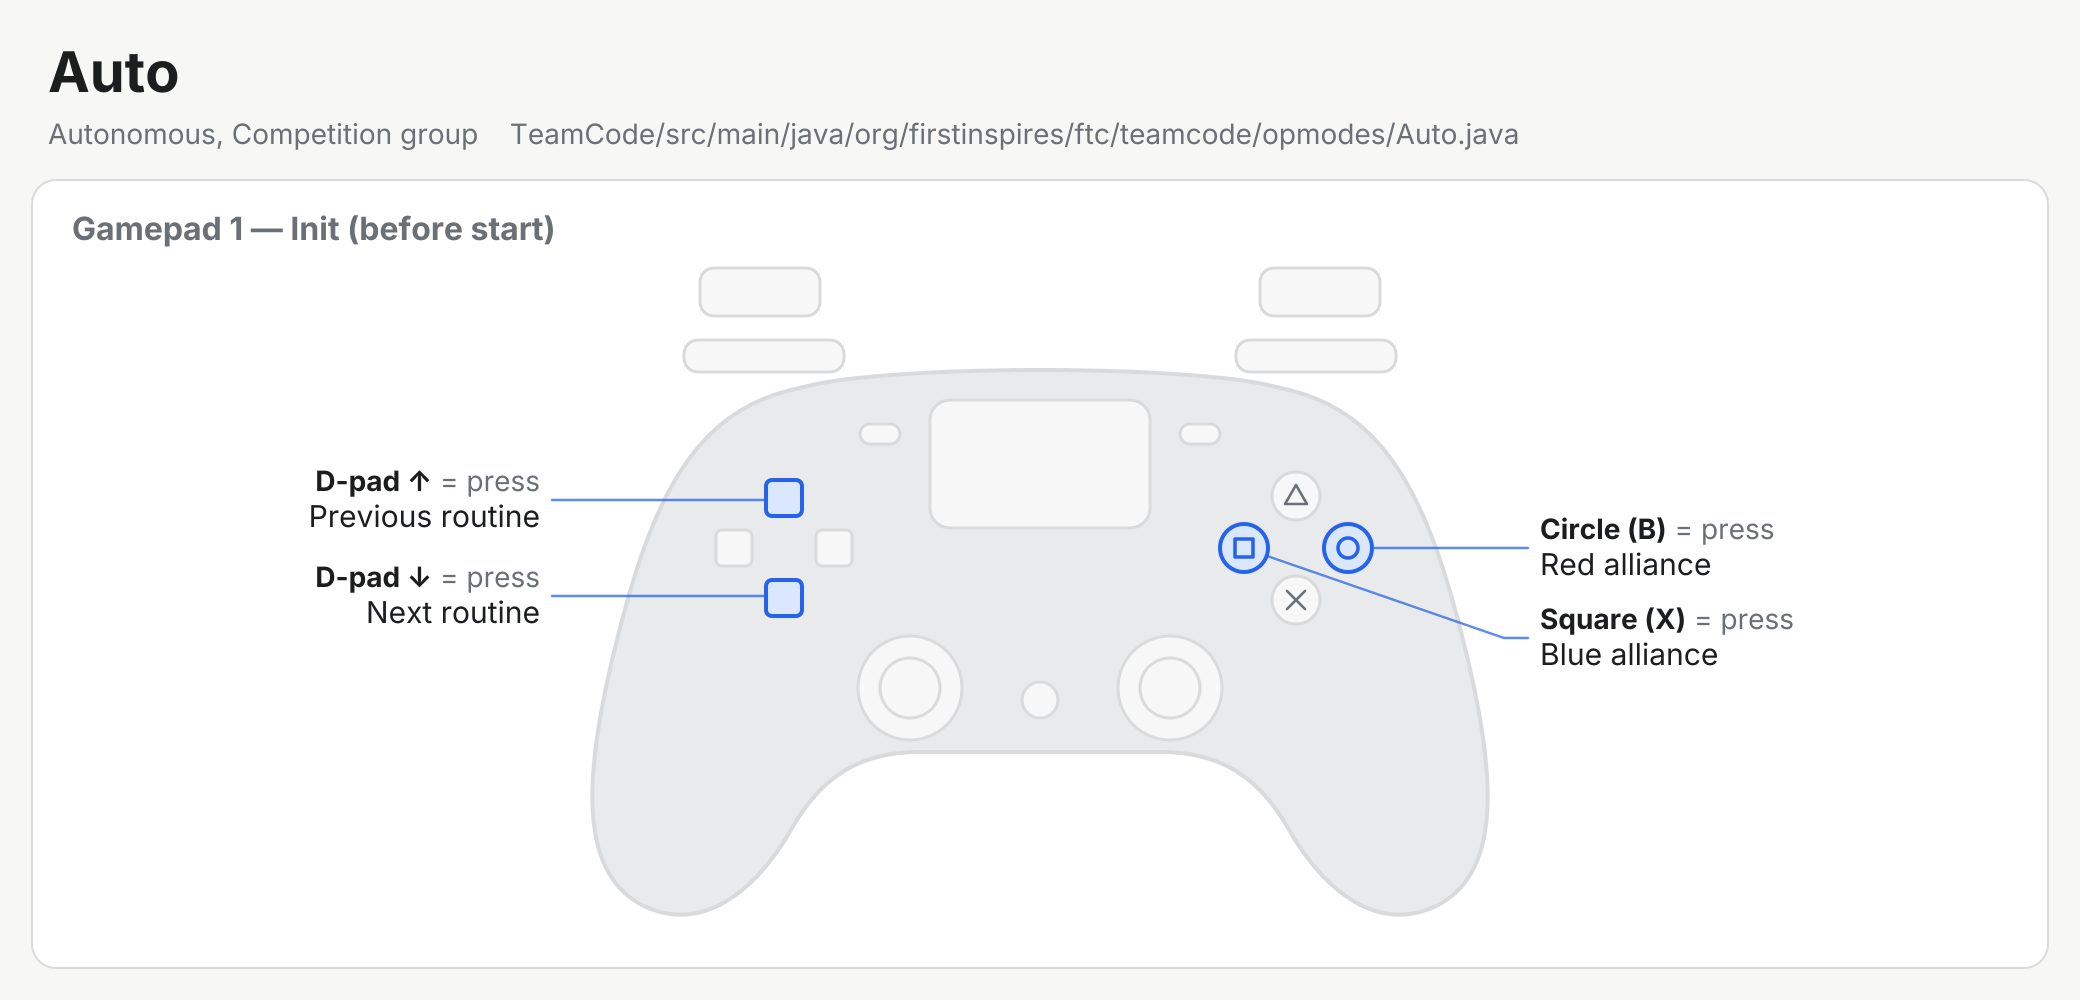
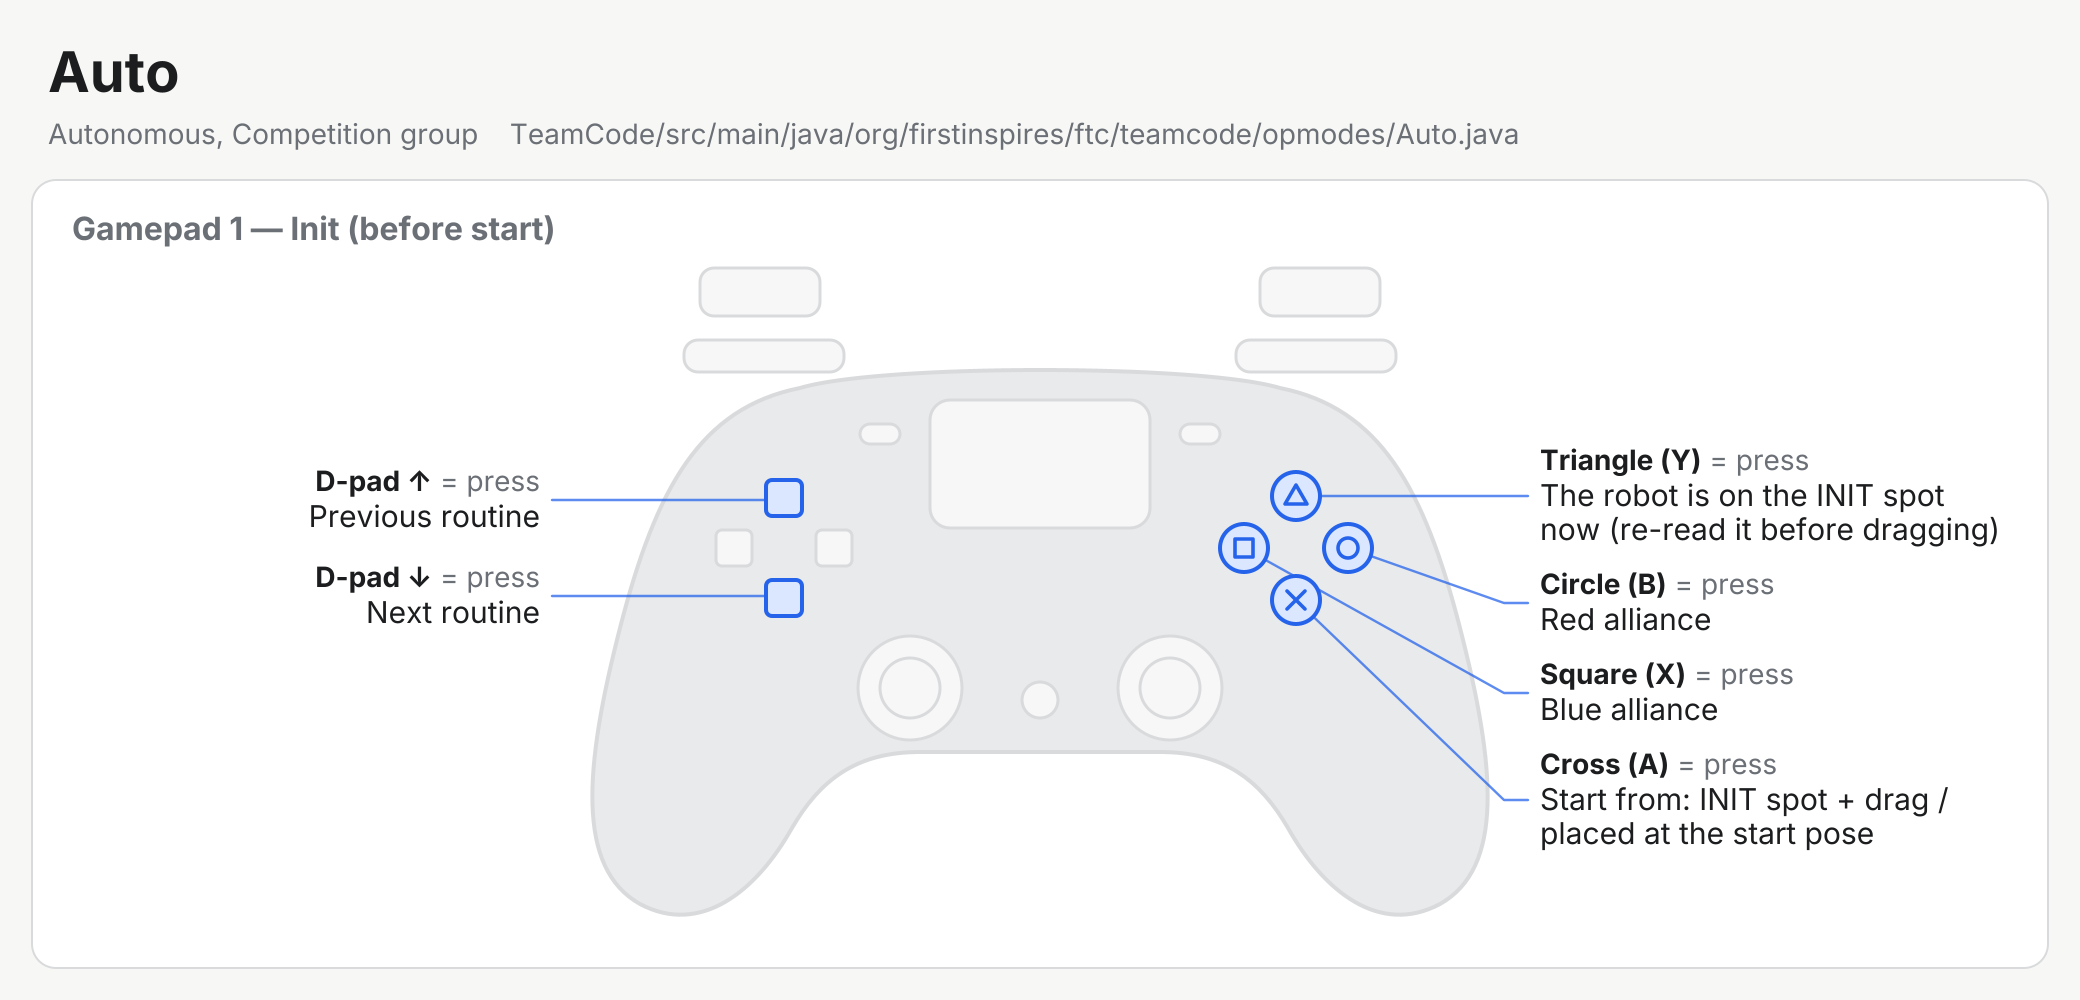
Auto: line up on an INIT spot by tile edges, then drag to the wall; start pose = spot + measured drag

Changed region(s): [[0.6562, 0.434, 0.9688, 0.868], [0.5938, 0.558, 0.6875, 0.62], [0.5938, 0.465, 0.6562, 0.527]]

diff --git a/TeamCode/src/main/java/org/firstinspires/ftc/teamcode/routines/FieldPoses.java b/TeamCode/src/main/java/org/firstinspires/ftc/teamcode/routines/FieldPoses.java
@@ -2,6 +2,7 @@ package org.firstinspires.ftc.teamcode.routines;
 
 import com.pedropathing.api.PoseFactory;
 import com.pedropathing.math.Pose;
+import com.pedropathing.utils.Angle;
 
 import org.firstinspires.ftc.teamcode.core.Hive;
 import org.firstinspires.ftc.teamcode.core.RobotConstants;
@@ -13,8 +14,40 @@ import org.firstinspires.ftc.teamcode.core.RobotConstants;
  * Write poses for the red alliance (inches, degrees). A pose only one routine uses can stay in that routine.
  */
 public class FieldPoses {
+    /**
+     * A spot to line the robot up on at INIT by tile edges alone, before dragging it to its start pose. Walls bend and
+     * the cable chain keeps the robot off them, but tile edges don't move: the Pinpoint measures the drag, so the start
+     * pose is this spot plus the drag ({@link #afterDrag}).
+     */
+    public static final class InitSpot {
+        public final Pose pose;
+        /** How to line up on it, as seen from our driver station (the same words for both alliances). */
+        public final String hint;
+
+        InitSpot(Pose pose, String hint) {
+            this.pose = pose;
+            this.hint = hint;
+        }
+
+        /**
+         * Where the robot is now: this spot, moved by what the Pinpoint read between lining up here (initRaw) and now
+         * (raw). The Pinpoint's own frame doesn't matter, only its move, taken in the robot's frame at the spot.
+         */
+        public Pose afterDrag(Pose initRaw, Pose raw) {
+            double c = Math.cos(initRaw.heading()), s = Math.sin(initRaw.heading());
+            double dx = raw.x() - initRaw.x(), dy = raw.y() - initRaw.y();
+            double forward = dx * c + dy * s, left = -dx * s + dy * c;
+            double turn = Angle.normalize(raw.heading() - initRaw.heading());
+            double h = pose.heading();
+            return new Pose(pose.x() + forward * Math.cos(h) - left * Math.sin(h),
+                    pose.y() + forward * Math.sin(h) + left * Math.cos(h), Angle.normalize(h + turn));
+        }
+    }
+
     /** Where the robot is placed at the start of the match. */
     public final Pose start;
+    /** Lined up one tile out from the audience wall, then dragged back to {@link #start}. */
+    public final InitSpot startInitSpot;
     /** Launch spot just in front of the start, where the preloads are shot. */
     public final Pose startLaunch;
     /** Edge of the garden, where the robot lines up to drive in and intake. */
@@ -47,8 +80,17 @@ public class FieldPoses {
     public final Pose rightLaunch, leftLaunch;
     /** Back against the alliance wall on the second tile from the audience wall (A2), facing the field. */
     public final Pose allianceWallStart;
+    /** Lined up one tile out from the alliance wall, then dragged back to (around) {@link #allianceWallStart}. */
+    public final InitSpot allianceWallInitSpot;
     /** Out from our garden corner, the ball camera on the garden's row of pollen. */
     public final Pose gardenLook;
+
+    /**
+     * The poses from start to flowerShoot were tuned with the robot's side on the tile edge at x = 48 while the code had
+     * it at x = 56.8946, this much further out; they're written as tuned and moved back by it, so the robot drives the
+     * same moves now that the start pose is where the robot really is (Nov 10).
+     */
+    private static final double TUNED_X_BIAS = 56.8946 - (48 + 15.748 / 2);
 
 
 
@@ -58,27 +100,43 @@ public class FieldPoses {
     }
 
     public FieldPoses(PoseFactory poseFactory) {
-        // Back against the audience wall. The poses down to topPark were tuned on the robot (Oct 30) from a start of
-        // y = 5.0366, 4.2134 in short of where the robot really sits, so they're all 4.2134 in up from what was tuned:
-        // the same moves on the field
-        start = poseFactory.of(56.8946, RobotConstants.Field.WALL + RobotConstants.Field.ROBOT_LENGTH / 2, 90);
-        startLaunch = poseFactory.of(59.808, 15.1732, 90);
-        gardenBorder = poseFactory.of(9.577, 28.2910, -90);
-        gardenIntake = poseFactory.of(9.561, 13.2993, -90);
-        gardenIntakeBack = poseFactory.of(9.561, 25.2993, -90);
-        adjustToPark = poseFactory.of(38.561, 24.2993, -90);
-        bottomPark = poseFactory.of(10.5389, 96.1701, 0);
-        topPark = poseFactory.of(11.4049, 124.6458, 0);
-        gardenCenterLine = poseFactory.of(60, 40, 90);
-        flowerLaunch = poseFactory.of(60, 119.7, 90);
-        flowerIntake = poseFactory.of(51, 131, 95);
-        flowerShoot = poseFactory.of(56, 121, 95);
+        double width = RobotConstants.Field.ROBOT_WIDTH, length = RobotConstants.Field.ROBOT_LENGTH;
+        // Back against the audience wall, the side nearest our driver station on the tile edge at x = 48. The poses down
+        // to topPark were tuned on the robot (Oct 30) from a start of y = 5.0366, 4.2134 in short of where the robot
+        // really sits, so they're all 4.2134 in up from what was tuned: the same moves on the field
+        start = poseFactory.of(48 + width / 2, RobotConstants.Field.WALL + length / 2, 90);
+        // The same, one tile out: back edge on the tile edge at y = 24
+        startInitSpot = new InitSpot(poseFactory.of(48 + width / 2, 24 + length / 2, 90),
+                "Facing left, one tile out from the right-hand side wall: back edge on the 1st tile line out from that"
+                        + " wall, the side nearest us on the 2nd tile line out from our alliance wall."
+                        + " INIT, then drag it straight back to the wall");
+        startLaunch = tuned(poseFactory, 59.808, 15.1732, 90);
+        gardenBorder = tuned(poseFactory, 9.577, 28.2910, -90);
+        gardenIntake = tuned(poseFactory, 9.561, 13.2993, -90);
+        gardenIntakeBack = tuned(poseFactory, 9.561, 25.2993, -90);
+        adjustToPark = tuned(poseFactory, 38.561, 24.2993, -90);
+        bottomPark = tuned(poseFactory, 10.5389, 96.1701, 0);
+        topPark = tuned(poseFactory, 11.4049, 124.6458, 0);
+        gardenCenterLine = tuned(poseFactory, 60, 40, 90);
+        flowerLaunch = tuned(poseFactory, 60, 119.7, 90);
+        flowerIntake = tuned(poseFactory, 51, 131, 95);
+        flowerShoot = tuned(poseFactory, 56, 121, 95);
         rightLaunch = poseFactory.of(56, 20.219975, 90);
         leftLaunch = poseFactory.of(56, 144 - 20.219975, -90);
         // The camera looks 20° left of the intake (RobotConstants.BallVision.YAW): heading = where to look - 20°
         allianceWallStart = poseFactory.of(RobotConstants.Field.WALL + RobotConstants.Field.ROBOT_LENGTH / 2, 36, 0);
+        // Facing the field one tile out from the alliance wall: back edge on x = 24, right side on y = 24
+        allianceWallInitSpot = new InitSpot(poseFactory.of(24 + length / 2, 24 + width / 2, 0),
+                "Facing away from us, one tile out from our alliance wall: back edge on the 1st tile line out from it,"
+                        + " right side on the 1st tile line out from the right-hand side wall."
+                        + " INIT, then drag it back to our wall (sliding it along is fine: the drag is measured)");
         gardenLook = poseFactory.of(30, 16, 190);
 
 
+    }
+
+    /** A pose as tuned on the robot before Nov 10, moved by TUNED_X_BIAS (red x; blue is flipped with the rest). */
+    private static Pose tuned(PoseFactory poseFactory, double x, double y, double degrees) {
+        return poseFactory.of(x - TUNED_X_BIAS, y, degrees);
     }
 }

diff --git a/TeamCode/src/main/java/org/firstinspires/ftc/teamcode/opmodes/Auto.java b/TeamCode/src/main/java/org/firstinspires/ftc/teamcode/opmodes/Auto.java
@@ -14,7 +14,9 @@ import org.firstinspires.ftc.robotcore.external.Telemetry;
 import org.firstinspires.ftc.teamcode.core.Hive;
 import org.firstinspires.ftc.teamcode.core.MatchState;
 import org.firstinspires.ftc.teamcode.core.Robot;
+import org.firstinspires.ftc.teamcode.pedro.FusedLocalizer;
 import org.firstinspires.ftc.teamcode.routines.AutoRoutine;
+import org.firstinspires.ftc.teamcode.routines.FieldPoses;
 import org.firstinspires.ftc.teamcode.routines.Routines;
 import org.firstinspires.ftc.teamcode.util.Html;
 import org.firstinspires.ftc.teamcode.util.MatchLog;
@@ -28,6 +30,10 @@ import java.util.List;
 public class Auto extends OpMode {
     // Static so the last pick is remembered between runs
     private static Routines selected = null;
+    // Lined up on the routine's INIT spot and dragged to the start (else placed at the start pose). Gamepad 1 cross
+    private static boolean fromInitSpot = true;
+    // The Pinpoint settles (and calibrates its gyro) after INIT: the INIT spot is read this long after
+    private static final double INIT_SPOT_READ_S = 0.5;
 
     private Robot robot;
     private Follower follower;
@@ -36,6 +42,8 @@ public class Auto extends OpMode {
     private AutoRoutine running; // the one start() scheduled
     private PanelsDisplay panelsDisplay;
     private final ElapsedTime loopTimer = new ElapsedTime();
+    private final ElapsedTime sinceInit = new ElapsedTime();
+    private Pose initSpotRaw = null; // the Pinpoint's pose with the robot on the INIT spot, null until read
 
     @Override
     public void init() {
@@ -53,6 +61,7 @@ public class Auto extends OpMode {
         routines = Routines.enabled();
         if (routines.isEmpty()) throw new IllegalStateException("Every routine is @Disabled");
         if (!routines.contains(selected)) selected = routines.get(0);
+        sinceInit.reset();
     }
 
     @Override
@@ -70,8 +79,7 @@ public class Auto extends OpMode {
         } else robot.ballVision.stop(); // opened scrolling past one that does: its pipeline would eat loop time
 
         telemetry.addData("Routine", "%s   (%d/%d, dpad ↑↓)", bold(selected.toString()), index + 1, routines.size());
-        Pose start = routine.startPose();
-        telemetry.addData("Place robot at", "x %.1f  y %.1f  h %.0f°", start.x(), start.y(), Math.toDegrees(start.heading()));
+        showStart(routine);
         // The turret was zeroed at INIT: if it's been turned since, the aim and the fused heading are off by as much
         double turret = Math.toDegrees(robot.launcher.readTurretAngle());
         if (Math.abs(turret) > 2) {
@@ -92,7 +100,7 @@ public class Auto extends OpMode {
     public void start() {
         // Alliance and routine are picked in init_loop, so the routine is built here instead of init()
         AutoRoutine routine = selected.create(robot, MatchState.alliance);
-        follower.setPose(routine.startPose());
+        follower.setPose(startPose(routine));
         routine.setUp();
 
         robot.start();
@@ -101,6 +109,50 @@ public class Auto extends OpMode {
         schedule(routine.autoRoutine());
         running = routine;
         loopTimer.reset();
+    }
+
+    /** The INIT spot (read once the Pinpoint has settled, or again on triangle), the drag so far, and where that puts us. */
+    private void showStart(AutoRoutine routine) {
+        FusedLocalizer localizer = robot.drivebase.getLocalizer();
+        localizer.update(); // only reads the Pinpoint: nothing moves
+        Pose raw = localizer.getOdometryPose();
+        if (initSpotRaw == null && sinceInit.seconds() > INIT_SPOT_READ_S) initSpotRaw = raw;
+        if (gamepad1.triangleWasPressed()) initSpotRaw = raw;
+        if (gamepad1.crossWasPressed()) fromInitSpot = !fromInitSpot;
+
+        Pose start = routine.startPose();
+        FieldPoses.InitSpot spot = routine.initSpot();
+        if (spot == null || !fromInitSpot) {
+            telemetry.addData("Place robot at", "x %.1f  y %.1f  h %.0f°", start.x(), start.y(), Math.toDegrees(start.heading()));
+            if (spot != null) telemetry.addLine("(cross: line up on the INIT spot and drag it there instead)");
+            return;
+        }
+        telemetry.addLine(bold("INIT spot: ") + spot.hint + "   (cross: placed at the start instead)");
+        if (initSpotRaw == null) {
+            telemetry.addLine(Html.color(bold("Hold still: reading the INIT spot"), Html.YELLOW));
+            return;
+        }
+        Pose now = spot.afterDrag(initSpotRaw, raw);
+        double dragged = Math.hypot(raw.x() - initSpotRaw.x(), raw.y() - initSpotRaw.y());
+        double turned = Math.toDegrees(Math.abs(Math.atan2(Math.sin(now.heading() - spot.pose.heading()),
+                Math.cos(now.heading() - spot.pose.heading()))));
+        telemetry.addData("Dragged", "%.1f in, turned %.1f°  ->  start x %.1f  y %.1f  h %.0f°   (triangle: it's on the INIT spot now)",
+                dragged, turned, now.x(), now.y(), Math.toDegrees(now.heading()));
+        double off = Math.hypot(now.x() - start.x(), now.y() - start.y());
+        if (dragged < 3) {
+            telemetry.addLine(Html.color(bold("Not dragged yet: drag it to the wall"), Html.YELLOW));
+        } else if (off > 6) {
+            telemetry.addLine(Html.color(bold(String.format("%.0f in from where the route starts: check the INIT spot", off)), Html.RED));
+        }
+    }
+
+    /** The routine's start pose, or with an INIT spot, that spot plus the drag the Pinpoint measured since. */
+    private Pose startPose(AutoRoutine routine) {
+        FieldPoses.InitSpot spot = routine.initSpot();
+        if (spot == null || !fromInitSpot || initSpotRaw == null) return routine.startPose();
+        FusedLocalizer localizer = robot.drivebase.getLocalizer();
+        localizer.update();
+        return spot.afterDrag(initSpotRaw, localizer.getOdometryPose());
     }
 
     @Override

diff --git a/TeamCode/src/test/java/org/firstinspires/ftc/teamcode/routines/InitSpotTest.java b/TeamCode/src/test/java/org/firstinspires/ftc/teamcode/routines/InitSpotTest.java
@@ -1,0 +1,46 @@
+package org.firstinspires.ftc.teamcode.routines;
+
+import static org.junit.Assert.assertEquals;
+
+import com.pedropathing.math.Pose;
+
+import org.junit.Test;
+
+public class InitSpotTest {
+    private static final double SPOT_X = 55.874, SPOT_Y = 32, SPOT_H = Math.toRadians(90);
+    private final FieldPoses.InitSpot spot = new FieldPoses.InitSpot(new Pose(SPOT_X, SPOT_Y, SPOT_H), "");
+
+    /** The Pinpoint's pose after moving forward / left (inches) in its own frame and turning (radians). */
+    private static Pose moved(Pose from, double forward, double left, double turn) {
+        double c = Math.cos(from.heading()), s = Math.sin(from.heading());
+        return new Pose(from.x() + forward * c - left * s, from.y() + forward * s + left * c, from.heading() + turn);
+    }
+
+    private static void assertPose(double x, double y, double heading, Pose actual) {
+        assertEquals("x", x, actual.x(), 1e-9);
+        assertEquals("y", y, actual.y(), 1e-9);
+        assertEquals("heading", heading, actual.heading(), 1e-9);
+    }
+
+    @Test
+    public void notDraggedIsTheSpot() {
+        Pose raw = new Pose(3, -7, 1.2);
+        assertPose(SPOT_X, SPOT_Y, SPOT_H, spot.afterDrag(raw, raw));
+    }
+
+    @Test
+    public void draggedStraightBackAnyPinpointFrame() {
+        // Whatever the Pinpoint read at the spot, 22.75 in backwards is 22.75 in toward the wall behind the spot
+        for (Pose initRaw : new Pose[]{new Pose(0, 0, 0), new Pose(10, -5, Math.toRadians(30)), new Pose(-3, 8, -2.5)}) {
+            assertPose(SPOT_X, SPOT_Y - 22.75, SPOT_H, spot.afterDrag(initRaw, moved(initRaw, -22.75, 0, 0)));
+        }
+    }
+
+    @Test
+    public void sidewaysAndTurnedFollowTheRobot() {
+        Pose initRaw = new Pose(10, -5, Math.toRadians(30));
+        // Facing +y at the spot, so the robot's left is -x
+        assertPose(SPOT_X - 3, SPOT_Y, SPOT_H, spot.afterDrag(initRaw, moved(initRaw, 0, 3, 0)));
+        assertPose(SPOT_X, SPOT_Y, SPOT_H + Math.toRadians(5), spot.afterDrag(initRaw, moved(initRaw, 0, 0, Math.toRadians(5))));
+    }
+}

diff --git a/TeamCode/src/main/java/org/firstinspires/ftc/teamcode/routines/AutoRoutine.java b/TeamCode/src/main/java/org/firstinspires/ftc/teamcode/routines/AutoRoutine.java
@@ -39,6 +39,14 @@ public abstract class AutoRoutine {
     /** Where the robot is placed at the start of the match. */
     public abstract Pose startPose();
 
+    /**
+     * Where to line the robot up at INIT before dragging it to startPose(), or null to place it at startPose() directly.
+     * Auto takes the start pose from this spot plus the drag the Pinpoint measured.
+     */
+    public FieldPoses.InitSpot initSpot() {
+        return null;
+    }
+
     /** The whole auto as one command. */
     public abstract Command autoRoutine();
 

diff --git a/TeamCode/src/main/java/org/firstinspires/ftc/teamcode/routines/OneCycleFlowerPark.java b/TeamCode/src/main/java/org/firstinspires/ftc/teamcode/routines/OneCycleFlowerPark.java
@@ -29,6 +29,11 @@ public class OneCycleFlowerPark extends AutoRoutine {
         return poses.start;
     }
 
+    @Override
+    public FieldPoses.InitSpot initSpot() {
+        return poses.startInitSpot;
+    }
+
     // Path methods
     private Path startToLaunch() {
         return line(poses.start, poses.startLaunch).linear(poses.start, poses.startLaunch);

diff --git a/TeamCode/src/main/java/org/firstinspires/ftc/teamcode/routines/OneCycleGardenPark.java b/TeamCode/src/main/java/org/firstinspires/ftc/teamcode/routines/OneCycleGardenPark.java
@@ -27,6 +27,11 @@ public class OneCycleGardenPark extends AutoRoutine {
         return poses.start;
     }
 
+    @Override
+    public FieldPoses.InitSpot initSpot() {
+        return poses.startInitSpot;
+    }
+
     // Path methods
     private Path startToLaunch() {
         return line(poses.start, poses.startLaunch).linear(poses.start, poses.startLaunch);

diff --git a/TeamCode/src/main/java/org/firstinspires/ftc/teamcode/routines/TwoCycleFlowerPark.java b/TeamCode/src/main/java/org/firstinspires/ftc/teamcode/routines/TwoCycleFlowerPark.java
@@ -29,6 +29,11 @@ public class TwoCycleFlowerPark extends AutoRoutine {
         return poses.start;
     }
 
+    @Override
+    public FieldPoses.InitSpot initSpot() {
+        return poses.startInitSpot;
+    }
+
     // Path methods
     private Path startToLaunch() {
         return line(poses.start, poses.startLaunch).linear(poses.start, poses.startLaunch);

diff --git a/TeamCode/src/main/java/org/firstinspires/ftc/teamcode/routines/TwoCycleGardenPark.java b/TeamCode/src/main/java/org/firstinspires/ftc/teamcode/routines/TwoCycleGardenPark.java
@@ -27,6 +27,11 @@ public class TwoCycleGardenPark extends AutoRoutine {
         return poses.start;
     }
 
+    @Override
+    public FieldPoses.InitSpot initSpot() {
+        return poses.startInitSpot;
+    }
+
     // Path methods
     private Path startToLaunch() {
         return line(poses.start, poses.startLaunch).linear(poses.start, poses.startLaunch);

diff --git a/TeamCode/src/main/java/org/firstinspires/ftc/teamcode/routines/CycleGardenPark.java b/TeamCode/src/main/java/org/firstinspires/ftc/teamcode/routines/CycleGardenPark.java
@@ -23,6 +23,11 @@ public class CycleGardenPark extends AutoRoutine {
         return poses.start;
     }
 
+    @Override
+    public FieldPoses.InitSpot initSpot() {
+        return poses.startInitSpot;
+    }
+
     // Path methods
     private Path startToLaunch() {
         return line(poses.start, poses.startLaunch).linear(poses.start, poses.startLaunch);

diff --git a/TeamCode/src/main/java/org/firstinspires/ftc/teamcode/routines/SoloCarry.java b/TeamCode/src/main/java/org/firstinspires/ftc/teamcode/routines/SoloCarry.java
@@ -87,6 +87,11 @@ public class SoloCarry extends AutoRoutine {
     }
 
     @Override
+    public FieldPoses.InitSpot initSpot() {
+        return poses.allianceWallInitSpot;
+    }
+
+    @Override
     public boolean usesBallVision() {
         return true;
     }

diff --git a/doc/solo-carry.md b/doc/solo-carry.md
@@ -14,8 +14,10 @@ drifting. All tip and park: 36 points, 2 to 4 pollen in the up cell.
 
 ## Before every match
 
-- **Start pose:** back against the alliance wall on tile A2, facing the field (`FieldPoses.allianceWallStart`; the init
-  screen shows the numbers). Set down within an inch or two: the sim's off-by-1.5 in, 5° runs still scored 49.
+- **Start pose:** back against the alliance wall on tile A2, facing the field (`FieldPoses.allianceWallStart`). Line
+  up on the INIT spot first (`FieldPoses.allianceWallInitSpot`, one tile out, edges on tile lines; the init screen
+  says how), INIT, then drag it back to the wall: the Pinpoint measures the drag, so the start pose doesn't lean on
+  the wall. Within an inch or two of A2's middle is plenty: the sim's off-by-1.5 in, 5° runs still scored 49.
 - **Turret facing forward at INIT, and not touched after:** INIT zeroes it where it is, and a zero error goes
   straight into the aim and the fused heading. The init screen shows its angle, red if it's more than 2° off: face
   it forward and INIT again.
